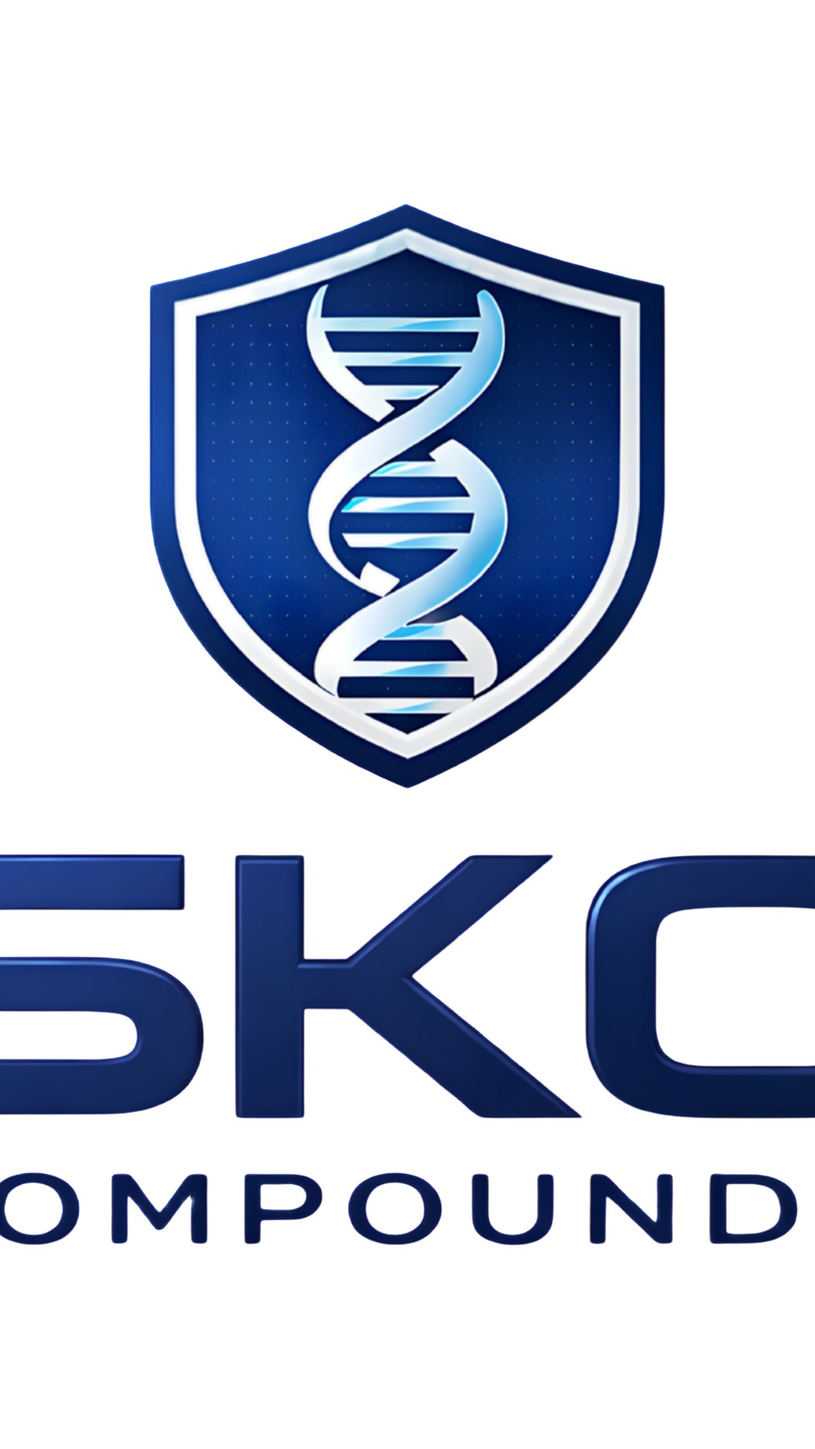
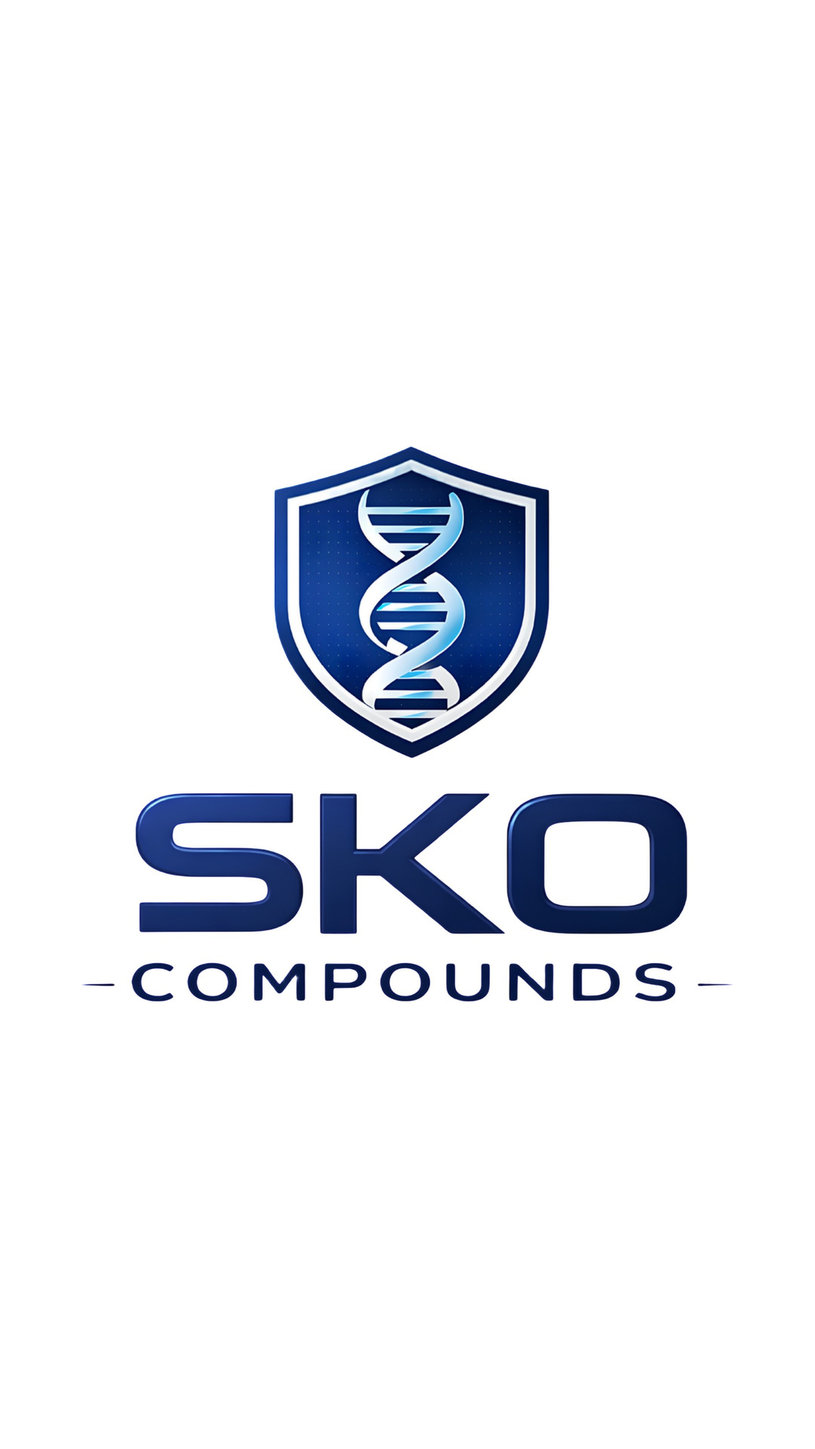
Colour: the field rule, and one token set across both surfaces
The blue is already Yves Klein Blue — IKB is #002FA7 at hue 223, SKO Blue
is #173384 at hue 224. Nothing to chase. What the reference gives us is a
usage rule, so that is what goes in the guide: when the blue runs large it
runs flat, edge to edge, with one machined object in it.

- Names #244399 as Field and adds it to the palette on both pages. It was
  already the ground in the film prompts and the header of the system
  sheet, but was in no palette anywhere.
- Retires #26379B / #1B2A7A from the book's own CSS. The guide has said
  since 29 Aug that those were read off photographs and are wrong, while
  the page itself still ran on them.
- Colour page gains a DO / DON'T pair: flat field against gradient
  backdrop, same lockup, ground the only variable.
- Rebuilds the system sheet on the brand book's shell — same tokens, same
  two faces actually loaded (it declared DM Sans and never linked it),
  grouped by what each asset is for, ratios and pixel sizes measured off
  the files rather than assumed from the filename.
- Cross-links book, system sheet and guideline in all directions.
- Rebuilds master-mark-9x16.jpg. Every ratio had been fitted to 0.721 of
  canvas height, which on 9:16 made the lockup wider than the canvas and
  cropped it to "SKC / MPOUND". Now fitted to width.

diff --git a/img/system/index.html b/img/system/index.html
@@ -1,47 +1,108 @@
-<!doctype html><meta charset="utf-8"><title>SKO — Brand system</title>
+<!doctype html><html lang="en"><head><meta charset="utf-8">
+<meta name="viewport" content="width=device-width,initial-scale=1"><meta name="robots" content="noindex,nofollow">
+<title>SKO Compounds — Brand system</title>
+<link rel="preconnect" href="https://fonts.gstatic.com" crossorigin>
+<link rel="stylesheet" href="https://fonts.googleapis.com/css2?family=DM+Sans:wght@400;500;700&family=IBM+Plex+Mono:wght@400&display=swap">
 <style>
-:root{--blue:#244399;--paper:#F4F5F7}
-*{box-sizing:border-box}body{margin:0;background:var(--paper);color:#0B0E17;font:400 15px/1.55 "DM Sans",system-ui,sans-serif}
-header{background:var(--blue);color:#fff;padding:72px 40px 60px}
-h1{margin:0;font-size:44px;letter-spacing:-.034em;font-weight:700}
-header p{margin:14px 0 0;opacity:.82;max-width:62ch}
-.rule{margin:40px;padding:22px 26px;border-left:3px solid var(--blue);background:#fff;max-width:72ch;color:#3a4560}
-.rule b{color:#0B0E17}
-.grid{display:grid;grid-template-columns:repeat(auto-fill,minmax(340px,1fr));gap:20px;padding:0 40px 60px}
-figure{margin:0;background:#fff;border:1px solid #e2e5ec;border-radius:6px;overflow:hidden}
-figure img{display:block;width:100%;height:auto}
-figcaption{display:flex;justify-content:space-between;padding:11px 13px;font-size:12px;color:#5a6480;border-top:1px solid #eef0f4}
-figcaption a{color:var(--blue);text-decoration:none;font-weight:500}
-</style>
-<header><h1>SKO — Brand system</h1>
-<p>The mark is vector. The weave is helix only. Everything here starts from the vector master.</p></header>
-<div class="rule"><b>Ground rule.</b> The full-colour master lockup goes on <b>white only</b>. Its wordmark is dark blue, so on any coloured ground it loses itself. On blue, on ink, on photography, on any colour at all &mdash; use the <b>white logo</b>. No exceptions, and never place the full-colour mark on the brand blue.</div>
-<div class="grid">
-<figure><img loading="lazy" src="bar-inverted-2400.jpg" alt="bar-inverted"><figcaption><span>bar-inverted</span><a href="bar-inverted-2400.jpg" download>download</a></figcaption></figure>
-<figure><img loading="lazy" src="bar-lockup-2400.jpg" alt="bar-lockup"><figcaption><span>bar-lockup</span><a href="bar-lockup-2400.jpg" download>download</a></figcaption></figure>
-<figure><img loading="lazy" src="bar-lockup-9x16.jpg" alt="bar-lockup"><figcaption><span>bar-lockup</span><a href="bar-lockup-9x16.jpg" download>download</a></figcaption></figure>
-<figure><img loading="lazy" src="bar-mark-2400.jpg" alt="bar-mark"><figcaption><span>bar-mark</span><a href="bar-mark-2400.jpg" download>download</a></figcaption></figure>
-<figure><img loading="lazy" src="bar-mark-9x16.jpg" alt="bar-mark"><figcaption><span>bar-mark</span><a href="bar-mark-9x16.jpg" download>download</a></figcaption></figure>
-<figure><img loading="lazy" src="bleed-crop-2400.jpg" alt="bleed-crop"><figcaption><span>bleed-crop</span><a href="bleed-crop-2400.jpg" download>download</a></figcaption></figure>
-<figure><img loading="lazy" src="bleed-crop-9x16.jpg" alt="bleed-crop"><figcaption><span>bleed-crop</span><a href="bleed-crop-9x16.jpg" download>download</a></figcaption></figure>
-<figure><img loading="lazy" src="bleed-wordmark-2400.jpg" alt="bleed-wordmark"><figcaption><span>bleed-wordmark</span><a href="bleed-wordmark-2400.jpg" download>download</a></figcaption></figure>
-<figure><img loading="lazy" src="chrome-on-blue-1x1.jpg" alt="chrome-on-blue"><figcaption><span>chrome-on-blue</span><a href="chrome-on-blue-1x1.jpg" download>download</a></figcaption></figure>
-<figure><img loading="lazy" src="chrome-on-blue-2400.jpg" alt="chrome-on-blue"><figcaption><span>chrome-on-blue</span><a href="chrome-on-blue-2400.jpg" download>download</a></figcaption></figure>
-<figure><img loading="lazy" src="chrome-on-blue-9x16.jpg" alt="chrome-on-blue"><figcaption><span>chrome-on-blue</span><a href="chrome-on-blue-9x16.jpg" download>download</a></figcaption></figure>
-<figure><img loading="lazy" src="mark-construction-2400.jpg" alt="mark-construction"><figcaption><span>mark-construction</span><a href="mark-construction-2400.jpg" download>download</a></figcaption></figure>
-<figure><img loading="lazy" src="master-mark-1x1.jpg" alt="master-mark"><figcaption><span>master-mark</span><a href="master-mark-1x1.jpg" download>download</a></figcaption></figure>
-<figure><img loading="lazy" src="master-mark-2400.jpg" alt="master-mark"><figcaption><span>master-mark</span><a href="master-mark-2400.jpg" download>download</a></figcaption></figure>
-<figure><img loading="lazy" src="master-mark-9x16.jpg" alt="master-mark"><figcaption><span>master-mark</span><a href="master-mark-9x16.jpg" download>download</a></figcaption></figure>
-<figure><img loading="lazy" src="master-on-white-2400.jpg" alt="master-on-white"><figcaption><span>master-on-white</span><a href="master-on-white-2400.jpg" download>download</a></figcaption></figure>
-<figure><img loading="lazy" src="roundel-tone-1x1.jpg" alt="roundel-tone"><figcaption><span>roundel-tone</span><a href="roundel-tone-1x1.jpg" download>download</a></figcaption></figure>
-<figure><img loading="lazy" src="roundel-tone-2400.jpg" alt="roundel-tone"><figcaption><span>roundel-tone</span><a href="roundel-tone-2400.jpg" download>download</a></figcaption></figure>
-<figure><img loading="lazy" src="woven-blue-1x1.jpg" alt="woven-blue"><figcaption><span>woven-blue</span><a href="woven-blue-1x1.jpg" download>download</a></figcaption></figure>
-<figure><img loading="lazy" src="woven-blue-2400.jpg" alt="woven-blue"><figcaption><span>woven-blue</span><a href="woven-blue-2400.jpg" download>download</a></figcaption></figure>
-<figure><img loading="lazy" src="woven-blue-9x16.jpg" alt="woven-blue"><figcaption><span>woven-blue</span><a href="woven-blue-9x16.jpg" download>download</a></figcaption></figure>
-<figure><img loading="lazy" src="woven-field-1x1.jpg" alt="woven-field"><figcaption><span>woven-field</span><a href="woven-field-1x1.jpg" download>download</a></figcaption></figure>
-<figure><img loading="lazy" src="woven-field-2400.jpg" alt="woven-field"><figcaption><span>woven-field</span><a href="woven-field-2400.jpg" download>download</a></figcaption></figure>
-<figure><img loading="lazy" src="woven-field-9x16.jpg" alt="woven-field"><figcaption><span>woven-field</span><a href="woven-field-9x16.jpg" download>download</a></figcaption></figure>
-<figure><img loading="lazy" src="woven-white-1x1.jpg" alt="woven-white"><figcaption><span>woven-white</span><a href="woven-white-1x1.jpg" download>download</a></figcaption></figure>
-<figure><img loading="lazy" src="woven-white-2400.jpg" alt="woven-white"><figcaption><span>woven-white</span><a href="woven-white-2400.jpg" download>download</a></figcaption></figure>
-<figure><img loading="lazy" src="woven-white-9x16.jpg" alt="woven-white"><figcaption><span>woven-white</span><a href="woven-white-9x16.jpg" download>download</a></figcaption></figure>
+:root{--blue:#173384;--deep:#092266;--field:#244399;--halo:#9DBFD9;
+ --ink:#111318;--mid:#6B7280;--line:#E4E7EC;--paper:#fff;--wash:#F4F5F7;
+ --foil:linear-gradient(100deg,#6E9EB6,#9CA1DF,#BAC7F2,#A1CEF5,#5BAEE5,#4775BB,#7578B0,#C3AFD7);}
+*{box-sizing:border-box;margin:0}
+body{background:#D9DCE2;color:var(--ink);font-family:'DM Sans',ui-sans-serif,system-ui,sans-serif;-webkit-font-smoothing:antialiased}
+img{display:block;max-width:100%}
+.mono{font-family:'IBM Plex Mono',ui-monospace,monospace}
+.wrap{width:min(1400px,94vw);margin:0 auto}
+header{background:var(--field);color:#fff;padding:76px 0 30px}
+header .in,nav .in{width:min(1400px,94vw);margin:0 auto}
+header .kick{font-family:'IBM Plex Mono',monospace;font-size:9.5px;letter-spacing:.18em;opacity:.72;margin-bottom:16px}
+h1{font-size:clamp(32px,4vw,52px);font-weight:700;letter-spacing:-.04em;line-height:.96}
+header p{margin-top:14px;font-size:13.5px;line-height:1.6;max-width:60ch;color:rgba(255,255,255,.84)}
+header .seal{height:4px;background:var(--foil);margin-top:40px}
+nav{background:var(--paper);border-bottom:1px solid var(--line);position:sticky;top:0;z-index:5}
+nav .in{display:flex;flex-wrap:wrap;gap:22px;padding:13px 0;
+ font-family:'IBM Plex Mono',monospace;font-size:9.5px;letter-spacing:.14em;color:var(--mid)}
+nav a{color:var(--mid);text-decoration:none}nav a:hover,nav a:focus-visible{color:var(--field)}
+nav .sp{margin-left:auto;display:flex;gap:22px}
+.rule{background:var(--paper);border-left:3px solid var(--field);padding:24px 28px;margin:0 0 16px;max-width:80ch;
+ font-size:13.5px;line-height:1.68;color:#3a4560}
+.rule:first-of-type{margin-top:34px}
+.rule b{color:var(--ink)}
+.pal{display:grid;grid-template-columns:repeat(6,1fr);gap:10px;margin:34px 0 34px}
+.pal .chip{height:78px;border-radius:5px;border:1px solid rgba(0,0,0,.1)}
+.pal b{display:block;font-size:11.5px;letter-spacing:-.01em;margin:9px 0 3px}
+.pal span{font-family:'IBM Plex Mono',monospace;font-size:8.5px;letter-spacing:.04em;color:var(--mid);display:block}
+h2{font-size:19px;font-weight:700;letter-spacing:-.015em;margin:52px 0 7px;scroll-margin-top:56px}
+h2+p{font-size:12.5px;line-height:1.6;color:var(--mid);max-width:64ch;margin-bottom:20px}
+.grid{display:grid;grid-template-columns:repeat(auto-fill,minmax(300px,1fr));gap:16px}
+figure{background:var(--paper);border:1px solid var(--line);border-radius:6px;overflow:hidden;display:flex;flex-direction:column}
+.thumb{height:250px;background:var(--wash);display:flex;align-items:center;justify-content:center;padding:14px;overflow:hidden}
+.thumb img{max-height:222px;max-width:100%;width:auto;height:auto;object-fit:contain}
+figcaption{display:flex;justify-content:space-between;align-items:baseline;gap:10px;padding:11px 13px;border-top:1px solid #eef0f4;margin-top:auto}
+figcaption .t{font-size:11.5px;letter-spacing:-.01em}
+figcaption .r{font-family:'IBM Plex Mono',monospace;font-size:8.5px;letter-spacing:.1em;color:var(--mid);white-space:nowrap;text-align:right}
+figcaption a{font-family:'IBM Plex Mono',monospace;font-size:8.5px;letter-spacing:.1em;color:var(--field);text-decoration:none;white-space:nowrap}
+footer{border-top:1px solid var(--line);margin-top:64px;padding:16px 0 44px;
+ font-family:'IBM Plex Mono',monospace;font-size:9.5px;letter-spacing:.14em;color:var(--mid);
+ display:flex;justify-content:space-between;flex-wrap:wrap;gap:14px}
+footer a{color:var(--mid)}
+@media(max-width:900px){.pal{grid-template-columns:repeat(3,1fr)}}
+</style></head><body>
+<header><div class="in"><div class="kick">SKO COMPOUNDS &middot; V1.0 &middot; AUG 2026 &middot; RESEARCH USE ONLY</div>
+<h1>Brand system</h1><p>The mark is vector. The weave is helix only. Everything here is rendered from <span class="mono">sko-mark-1c.svg</span> &mdash; nothing is re-traced from a raster and nothing is rebuilt by hand.</p>
+<div class="seal"></div></div></header>
+<nav><div class="in">
+<a href="#the-field">THE FIELD</a>
+<a href="#the-bar">THE BAR</a>
+<a href="#the-bleed">THE BLEED</a>
+<a href="#the-mark">THE MARK</a>
+<a href="#woven">THE WOVEN SHIELD</a>
+<span class="sp"><a href="../../index.html">BRAND BOOK</a><a href="https://vessa.design/brand/sko-compounds">GUIDELINE</a></span></div></nav>
+<div class="wrap"><div class="pal">
+<div><div class="chip" style="background:#173384"></div><b>SKO Blue</b><span>#173384</span><span>Primary</span></div>
+<div><div class="chip" style="background:#092266"></div><b>Deep</b><span>#092266</span><span>Shade</span></div>
+<div><div class="chip" style="background:#244399"></div><b>Field</b><span>#244399</span><span>Flat field</span></div>
+<div><div class="chip" style="background:#9DBFD9"></div><b>Halo</b><span>#9DBFD9</span><span>Wash</span></div>
+<div><div class="chip" style="background:#F4F5F7"></div><b>Paper</b><span>#F4F5F7</span><span>Surface</span></div>
+<div><div class="chip" style="background:#07090F"></div><b>Carbon</b><span>#07090F</span><span>Ground</span></div>
 </div>
+<div class="rule"><b>Ground rule.</b> The full-colour master lockup goes on <b>white only</b>. Its wordmark is dark blue, so on any coloured ground it loses itself. On blue, on ink, on photography, on any colour at all &mdash; use the <b>white logo</b>. No exceptions, and never place the full-colour mark on the brand blue.</div>
+<div class="rule"><b>The field.</b> Yves Klein Blue is #002FA7, hue 223. SKO Blue is #173384, hue 224 &mdash; the same hue, ours darker. The brand already owns the colour, so there is nothing to chase. What the reference gives us is a usage rule: Klein&rsquo;s blue was never a backdrop, it was the work. So when our blue runs large it runs <b>flat, edge to edge, with nothing behind it and no gradient inside it</b>, and one machined object sits in it. <b>Field #244399</b> is the value for that &mdash; the same hue held brighter, so it carries a whole surface without going black. Blue against polished steel is the whole composition; the chrome mark, the crimp collar and the foil band are the steel.</div>
+<h2 id="the-field">The field</h2><p>Blue used flat, edge to edge, with one machined object in it. This is the Klein rule, and it is the only way the blue runs large.</p><div class="grid">
+<figure><div class="thumb"><img loading="lazy" src="chrome-on-blue-2400.jpg" alt="Chrome mark on the flat field"></div><figcaption><span class="t">Chrome mark on the flat field</span><span class="r">8:5<br>2400&times;1500</span><a href="chrome-on-blue-2400.jpg" download>DOWNLOAD</a></figcaption></figure>
+<figure><div class="thumb"><img loading="lazy" src="chrome-on-blue-1x1.jpg" alt="Chrome mark on the flat field"></div><figcaption><span class="t">Chrome mark on the flat field</span><span class="r">1:1<br>1200&times;1200</span><a href="chrome-on-blue-1x1.jpg" download>DOWNLOAD</a></figcaption></figure>
+<figure><div class="thumb"><img loading="lazy" src="chrome-on-blue-9x16.jpg" alt="Chrome mark on the flat field"></div><figcaption><span class="t">Chrome mark on the flat field</span><span class="r">9:16<br>1080&times;1920</span><a href="chrome-on-blue-9x16.jpg" download>DOWNLOAD</a></figcaption></figure>
+</div>
+<h2 id="the-bar">The bar</h2><p>The rule carrying the mark. Straight angles hold on static work; the slant is for motion, where the camera moves around it.</p><div class="grid">
+<figure><div class="thumb"><img loading="lazy" src="bar-lockup-2400.jpg" alt="Bar with lockup"></div><figcaption><span class="t">Bar with lockup</span><span class="r">8:5<br>2400&times;1500</span><a href="bar-lockup-2400.jpg" download>DOWNLOAD</a></figcaption></figure>
+<figure><div class="thumb"><img loading="lazy" src="bar-lockup-9x16.jpg" alt="Bar with lockup"></div><figcaption><span class="t">Bar with lockup</span><span class="r">9:16<br>1080&times;1920</span><a href="bar-lockup-9x16.jpg" download>DOWNLOAD</a></figcaption></figure>
+<figure><div class="thumb"><img loading="lazy" src="bar-mark-2400.jpg" alt="Bar with mark alone"></div><figcaption><span class="t">Bar with mark alone</span><span class="r">8:5<br>2400&times;1500</span><a href="bar-mark-2400.jpg" download>DOWNLOAD</a></figcaption></figure>
+<figure><div class="thumb"><img loading="lazy" src="bar-mark-9x16.jpg" alt="Bar with mark alone"></div><figcaption><span class="t">Bar with mark alone</span><span class="r">9:16<br>1080&times;1920</span><a href="bar-mark-9x16.jpg" download>DOWNLOAD</a></figcaption></figure>
+<figure><div class="thumb"><img loading="lazy" src="bar-inverted-2400.jpg" alt="Bar inverted"></div><figcaption><span class="t">Bar inverted</span><span class="r">8:5<br>2400&times;1500</span><a href="bar-inverted-2400.jpg" download>DOWNLOAD</a></figcaption></figure>
+</div>
+<h2 id="the-bleed">The bleed</h2><p>The mark run off the edge. Crops come from the vector, never from a raster.</p><div class="grid">
+<figure><div class="thumb"><img loading="lazy" src="bleed-crop-2400.jpg" alt="Mark cropped to the bleed"></div><figcaption><span class="t">Mark cropped to the bleed</span><span class="r">8:5<br>2400&times;1500</span><a href="bleed-crop-2400.jpg" download>DOWNLOAD</a></figcaption></figure>
+<figure><div class="thumb"><img loading="lazy" src="bleed-crop-9x16.jpg" alt="Mark cropped to the bleed"></div><figcaption><span class="t">Mark cropped to the bleed</span><span class="r">9:16<br>1080&times;1920</span><a href="bleed-crop-9x16.jpg" download>DOWNLOAD</a></figcaption></figure>
+<figure><div class="thumb"><img loading="lazy" src="bleed-wordmark-2400.jpg" alt="Wordmark to the bleed"></div><figcaption><span class="t">Wordmark to the bleed</span><span class="r">8:5<br>2400&times;1500</span><a href="bleed-wordmark-2400.jpg" download>DOWNLOAD</a></figcaption></figure>
+</div>
+<h2 id="the-mark">The mark</h2><p>Construction, the master, and the roundel. All rendered from the vector.</p><div class="grid">
+<figure><div class="thumb"><img loading="lazy" src="mark-construction-2400.jpg" alt="Construction and clear space"></div><figcaption><span class="t">Construction and clear space</span><span class="r">8:5<br>2400&times;1500</span><a href="mark-construction-2400.jpg" download>DOWNLOAD</a></figcaption></figure>
+<figure><div class="thumb"><img loading="lazy" src="master-on-white-2400.jpg" alt="Full-colour master — white ground only"></div><figcaption><span class="t">Full-colour master — white ground only</span><span class="r">8:5<br>2400&times;1500</span><a href="master-on-white-2400.jpg" download>DOWNLOAD</a></figcaption></figure>
+<figure><div class="thumb"><img loading="lazy" src="master-mark-2400.jpg" alt="Master mark"></div><figcaption><span class="t">Master mark</span><span class="r">8:5<br>2400&times;1500</span><a href="master-mark-2400.jpg" download>DOWNLOAD</a></figcaption></figure>
+<figure><div class="thumb"><img loading="lazy" src="master-mark-1x1.jpg" alt="Master mark"></div><figcaption><span class="t">Master mark</span><span class="r">1:1<br>1200&times;1200</span><a href="master-mark-1x1.jpg" download>DOWNLOAD</a></figcaption></figure>
+<figure><div class="thumb"><img loading="lazy" src="master-mark-9x16.jpg" alt="Master mark"></div><figcaption><span class="t">Master mark</span><span class="r">9:16<br>1080&times;1920</span><a href="master-mark-9x16.jpg" download>DOWNLOAD</a></figcaption></figure>
+<figure><div class="thumb"><img loading="lazy" src="roundel-tone-2400.jpg" alt="Roundel"></div><figcaption><span class="t">Roundel</span><span class="r">8:5<br>2400&times;1500</span><a href="roundel-tone-2400.jpg" download>DOWNLOAD</a></figcaption></figure>
+<figure><div class="thumb"><img loading="lazy" src="roundel-tone-1x1.jpg" alt="Roundel"></div><figcaption><span class="t">Roundel</span><span class="r">1:1<br>1200&times;1200</span><a href="roundel-tone-1x1.jpg" download>DOWNLOAD</a></figcaption></figure>
+</div>
+<h2 id="woven">The woven shield</h2><p>The helix woven into the shield. Every strand is clipped to the shield outline — nothing runs outside it.</p><div class="grid">
+<figure><div class="thumb"><img loading="lazy" src="woven-blue-2400.jpg" alt="Woven — on blue"></div><figcaption><span class="t">Woven — on blue</span><span class="r">8:5<br>2400&times;1500</span><a href="woven-blue-2400.jpg" download>DOWNLOAD</a></figcaption></figure>
+<figure><div class="thumb"><img loading="lazy" src="woven-blue-1x1.jpg" alt="Woven — on blue"></div><figcaption><span class="t">Woven — on blue</span><span class="r">1:1<br>1200&times;1200</span><a href="woven-blue-1x1.jpg" download>DOWNLOAD</a></figcaption></figure>
+<figure><div class="thumb"><img loading="lazy" src="woven-blue-9x16.jpg" alt="Woven — on blue"></div><figcaption><span class="t">Woven — on blue</span><span class="r">9:16<br>1080&times;1920</span><a href="woven-blue-9x16.jpg" download>DOWNLOAD</a></figcaption></figure>
+<figure><div class="thumb"><img loading="lazy" src="woven-white-2400.jpg" alt="Woven — on white"></div><figcaption><span class="t">Woven — on white</span><span class="r">8:5<br>2400&times;1500</span><a href="woven-white-2400.jpg" download>DOWNLOAD</a></figcaption></figure>
+<figure><div class="thumb"><img loading="lazy" src="woven-white-1x1.jpg" alt="Woven — on white"></div><figcaption><span class="t">Woven — on white</span><span class="r">1:1<br>1200&times;1200</span><a href="woven-white-1x1.jpg" download>DOWNLOAD</a></figcaption></figure>
+<figure><div class="thumb"><img loading="lazy" src="woven-white-9x16.jpg" alt="Woven — on white"></div><figcaption><span class="t">Woven — on white</span><span class="r">9:16<br>1080&times;1920</span><a href="woven-white-9x16.jpg" download>DOWNLOAD</a></figcaption></figure>
+<figure><div class="thumb"><img loading="lazy" src="woven-field-2400.jpg" alt="Woven — field, no furniture"></div><figcaption><span class="t">Woven — field, no furniture</span><span class="r">8:5<br>2400&times;1500</span><a href="woven-field-2400.jpg" download>DOWNLOAD</a></figcaption></figure>
+<figure><div class="thumb"><img loading="lazy" src="woven-field-1x1.jpg" alt="Woven — field, no furniture"></div><figcaption><span class="t">Woven — field, no furniture</span><span class="r">1:1<br>1200&times;1200</span><a href="woven-field-1x1.jpg" download>DOWNLOAD</a></figcaption></figure>
+<figure><div class="thumb"><img loading="lazy" src="woven-field-9x16.jpg" alt="Woven — field, no furniture"></div><figcaption><span class="t">Woven — field, no furniture</span><span class="r">9:16<br>1080&times;1920</span><a href="woven-field-9x16.jpg" download>DOWNLOAD</a></figcaption></figure>
+</div>
+<footer><span>SKO BRAND SYSTEM &middot; RENDERED FROM VECTOR</span><span><a href="../../index.html">BRAND BOOK</a> &middot; <a href="https://vessa.design/brand/sko-compounds">GUIDELINE</a></span></footer>
+</div></body></html>

diff --git a/index.html b/index.html
@@ -10,7 +10,7 @@
 <link rel="stylesheet" href="https://fonts.googleapis.com/css2?family=DM+Sans:wght@400;500;700&family=IBM+Plex+Mono:wght@400&display=swap">
 <style>
 :root{
-  --blue:#26379B; --deep:#1B2A7A; --halo:#9DBFD9;
+  --blue:#173384; --deep:#092266; --field:#244399; --halo:#9DBFD9;
   --ink:#111318; --mid:#6B7280; --line:#E4E7EC; --paper:#fff; --wash:#F4F5F7;
   --bad:#C0392B;
   --foil:linear-gradient(100deg,#6E9EB6,#9CA1DF,#BAC7F2,#A1CEF5,#5BAEE5,#4775BB,#7578B0,#C3AFD7);
@@ -56,18 +56,32 @@ img{display:block;max-width:100%}
 .cover .art img{width:100%;height:100%;object-fit:cover;object-position:center 58%}
 .cover h1{position:absolute;left:46px;top:40px;font-size:clamp(34px,4.4vw,62px);font-weight:700;
   letter-spacing:-.04em;line-height:.94;color:#fff;text-shadow:0 2px 30px rgba(10,24,70,.45)}
-.cover .stamp{position:absolute;left:46px;bottom:34px;display:flex;gap:34px;
+.cover .stamp{position:absolute;left:46px;bottom:34px;display:flex;gap:34px;align-items:center;
   font-family:'IBM Plex Mono',monospace;font-size:9.5px;letter-spacing:.16em;color:rgba(255,255,255,.9)}
+.cover .stamp a{color:#fff;text-decoration:none;border-bottom:1px solid rgba(255,255,255,.45);padding-bottom:2px}
+.cover .stamp a:hover{border-color:#fff}
 .cover .seal{position:absolute;left:0;right:0;bottom:0;height:4px;background:var(--foil)}
 
 /* colour spec table */
-.swatches{display:grid;grid-template-columns:repeat(5,1fr);gap:12px;align-content:start}
-.sw .chip{height:120px;border-radius:5px;border:1px solid var(--line)}
+.swatches{display:grid;grid-template-columns:repeat(6,1fr);gap:10px;align-content:start}
+.sw .chip{height:104px;border-radius:5px;border:1px solid var(--line)}
 .sw table{width:100%;margin-top:9px;border-collapse:collapse}
 .sw td{font-family:'IBM Plex Mono',monospace;font-size:8.5px;color:var(--mid);padding:1px 0;
   letter-spacing:.04em}
 .sw td:first-child{color:var(--ink);width:34px}
 .sw b{display:block;font-size:11.5px;font-family:'DM Sans';letter-spacing:-.01em;margin-bottom:4px}
+
+/* the field specimen */
+.field-rule{margin-top:20px;padding-top:18px;border-top:1px solid var(--line)}
+.fr-copy{font-size:11.5px;line-height:1.6;color:var(--mid);max-width:88ch;margin-bottom:14px}
+.fr-copy b{color:var(--ink)}
+.fr-pair{display:grid;grid-template-columns:1fr 1fr;gap:14px}
+.fr-pair figure{margin:0}
+.fr-tile{aspect-ratio:16/9;border-radius:5px;display:grid;place-items:center;overflow:hidden}
+.fr-tile img{width:46%;height:auto}
+.fr-pair figcaption{margin-top:6px;font-size:9.5px;line-height:1.4;color:var(--mid);display:flex;gap:6px}
+.fr-pair .ok{color:var(--blue);font-weight:700;font-family:'IBM Plex Mono',monospace;letter-spacing:.1em}
+.fr-pair .no{color:var(--bad);font-weight:700;font-family:'IBM Plex Mono',monospace;letter-spacing:.1em}
 
 /* don'ts */
 .dont .tile{border:1px solid rgba(192,57,43,.55);background:#fff}
@@ -91,7 +105,7 @@ img{display:block;max-width:100%}
   <div class="art">
     <img src="img/rail.jpg" alt="Five SKO vials at identical scale on a machined rail against open sky">
     <h1>SKO Compounds<br>Brand Book</h1>
-    <div class="stamp"><span>V1.0</span><span>AUG 2026</span><span>RESEARCH USE ONLY</span></div>
+    <div class="stamp"><span>V1.0</span><span>AUG 2026</span><span>RESEARCH USE ONLY</span><a href="img/system/">BRAND SYSTEM &rarr;</a><a href="https://vessa.design/brand/sko-compounds">GUIDELINE &rarr;</a></div>
     <div class="seal"></div>
   </div>
 </div>
@@ -127,9 +141,14 @@ img{display:block;max-width:100%}
 <div class="page">
   <div class="col">
     <h2>Colour</h2>
-    <p>SKO Blue is the primary. Halo is the light blue that already runs as a full-frame wash in the ad
-    system. Foil is a material, not a colour. On the label it is two bands, top and bottom. In a composition it appears only where it physically exists — on product. It is never added as a graphic.</p>
-    <p><b>Measured 29 Aug 2026</b> off the label artwork: SKO Blue is <b>#173384</b> lit, <b>#092266</b> in shade. The earlier #26379B was read off photographs and is wrong. The seal is <b>two bands</b>, top and bottom of the label — not a full perimeter.</p>
+    <p>One blue at three values. SKO Blue is the primary, measured off the label. <b>Field</b> is
+    the same blue held brighter &mdash; what blue becomes when blue is the whole surface. Foil is a
+    material, not a colour: two bands on the label, and it appears only where it physically exists.</p>
+    <p><b>The blue is already Yves Klein Blue.</b> IKB is #002FA7, hue 223. SKO Blue is #173384,
+    hue 224 &mdash; the same hue, ours darker. Nothing to chase. But Klein&rsquo;s blue was never a
+    backdrop, it was the work, and that is the rule we take.</p>
+    <p><b>Measured 29 Aug 2026</b> off the label artwork. #26379B, #1B2A7A and the store&rsquo;s
+    #1447D6 were read off photographs, not the pack, and are retired.</p>
   </div>
   <div class="body">
     <div class="swatches">
@@ -137,12 +156,26 @@ img{display:block;max-width:100%}
         <table><tr><td>HEX</td><td>#173384</td></tr><tr><td>RGB</td><td>23 51 132</td></tr><tr><td>USE</td><td>Primary</td></tr></table></div>
       <div class="sw"><div class="chip" style="background:#092266"></div><b>Deep</b>
         <table><tr><td>HEX</td><td>#092266</td></tr><tr><td>RGB</td><td>9 34 102</td></tr><tr><td>USE</td><td>Ground</td></tr></table></div>
+      <div class="sw"><div class="chip" style="background:#244399"></div><b>Field</b>
+        <table><tr><td>HEX</td><td>#244399</td></tr><tr><td>RGB</td><td>36 67 153</td></tr><tr><td>USE</td><td>Flat field</td></tr></table></div>
       <div class="sw"><div class="chip" style="background:#9DBFD9"></div><b>Halo</b>
         <table><tr><td>HEX</td><td>#9DBFD9</td></tr><tr><td>RGB</td><td>157 191 217</td></tr><tr><td>USE</td><td>Secondary</td></tr></table></div>
       <div class="sw"><div class="chip" style="background:#F4F5F7"></div><b>Paper</b>
         <table><tr><td>HEX</td><td>#F4F5F7</td></tr><tr><td>RGB</td><td>244 245 247</td></tr><tr><td>USE</td><td>Surface</td></tr></table></div>
       <div class="sw"><div class="chip" style="background:linear-gradient(100deg,#6E9EB6,#BAC7F2,#5BAEE5,#C3AFD7)"></div><b>Foil</b>
         <table><tr><td>TYPE</td><td>Material</td></tr><tr><td>USE</td><td>Seal / edge</td></tr><tr><td>RULE</td><td>Only where real</td></tr></table></div>
+    </div>
+    <div class="field-rule">
+      <div class="fr-copy"><b>The field.</b> When the blue runs large it runs flat &mdash; edge to edge,
+      nothing behind it, no gradient inside it &mdash; and one machined object sits in it. A blue that
+      fades out behind a product is a backdrop, and it reads cheap. A blue that <i>is</i> the surface
+      reads expensive. Blue against polished steel is the whole composition.</div>
+      <div class="fr-pair">
+        <figure><div class="fr-tile" style="background:#244399"><img src="img/logo/clean/lockup-white-2000.png" alt="White lockup on a flat blue field"></div>
+          <figcaption><span class="ok">DO</span> Flat field #244399. One object in it.</figcaption></figure>
+        <figure><div class="fr-tile" style="background:radial-gradient(120% 90% at 50% 38%,#3E63C8 0%,#244399 45%,#0B1E58 100%)"><img src="img/logo/clean/lockup-white-2000.png" alt="White lockup on a gradient blue backdrop"></div>
+          <figcaption><span class="no">DON&rsquo;T</span> Gradient backdrop, lit vignette, falloff.</figcaption></figure>
+      </div>
     </div>
   </div>
   <div class="foot"><span class="l"><img src="img/shield.png" alt="">SKO BRAND BOOK</span><span>IDENTITY</span></div>
